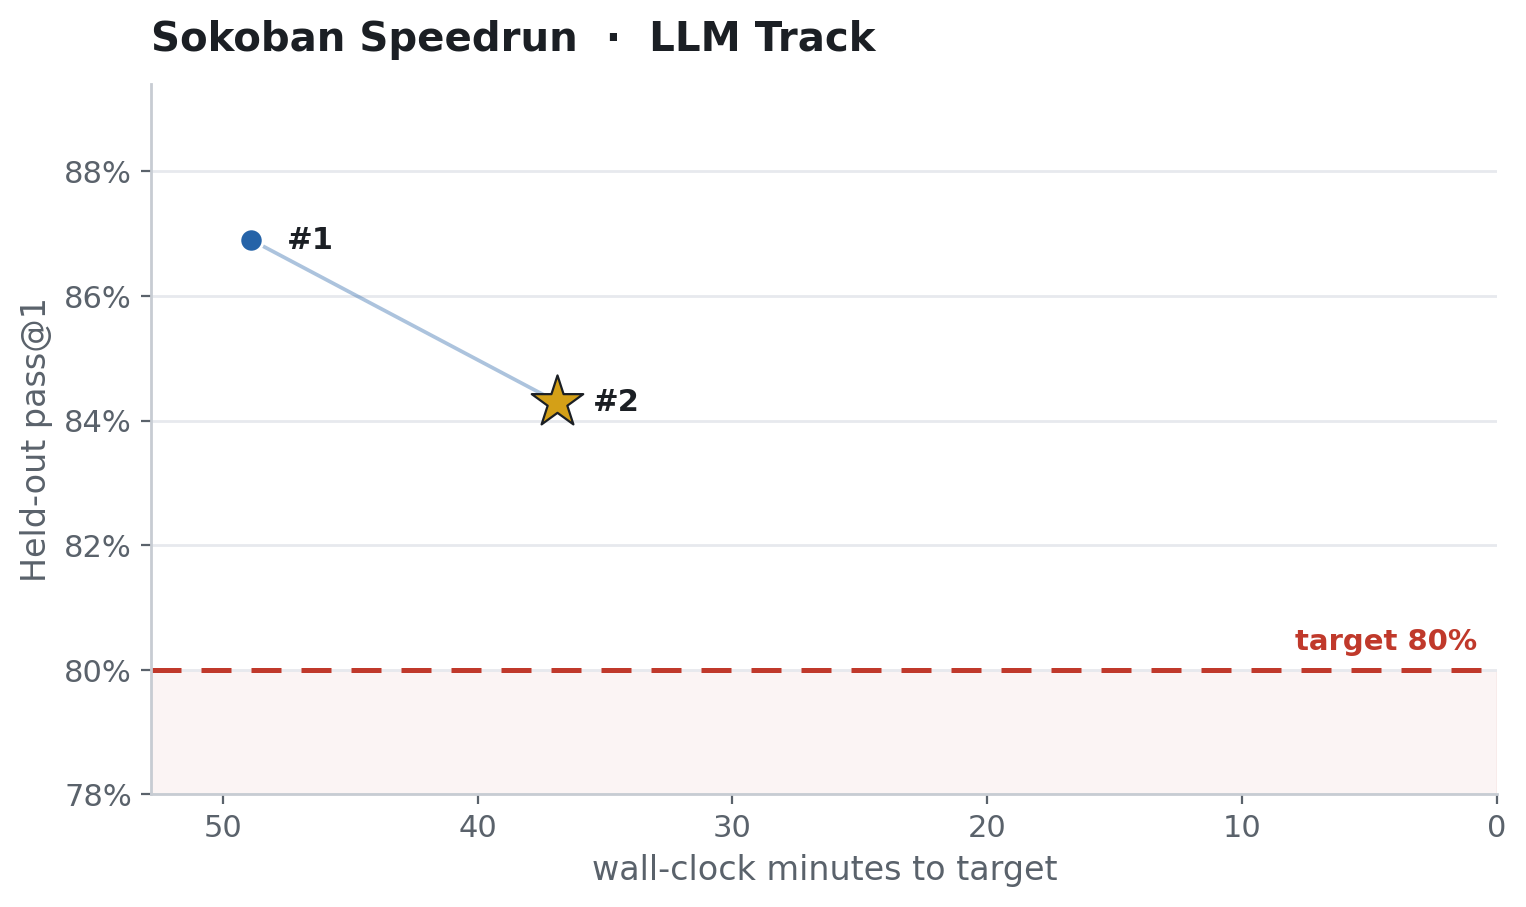
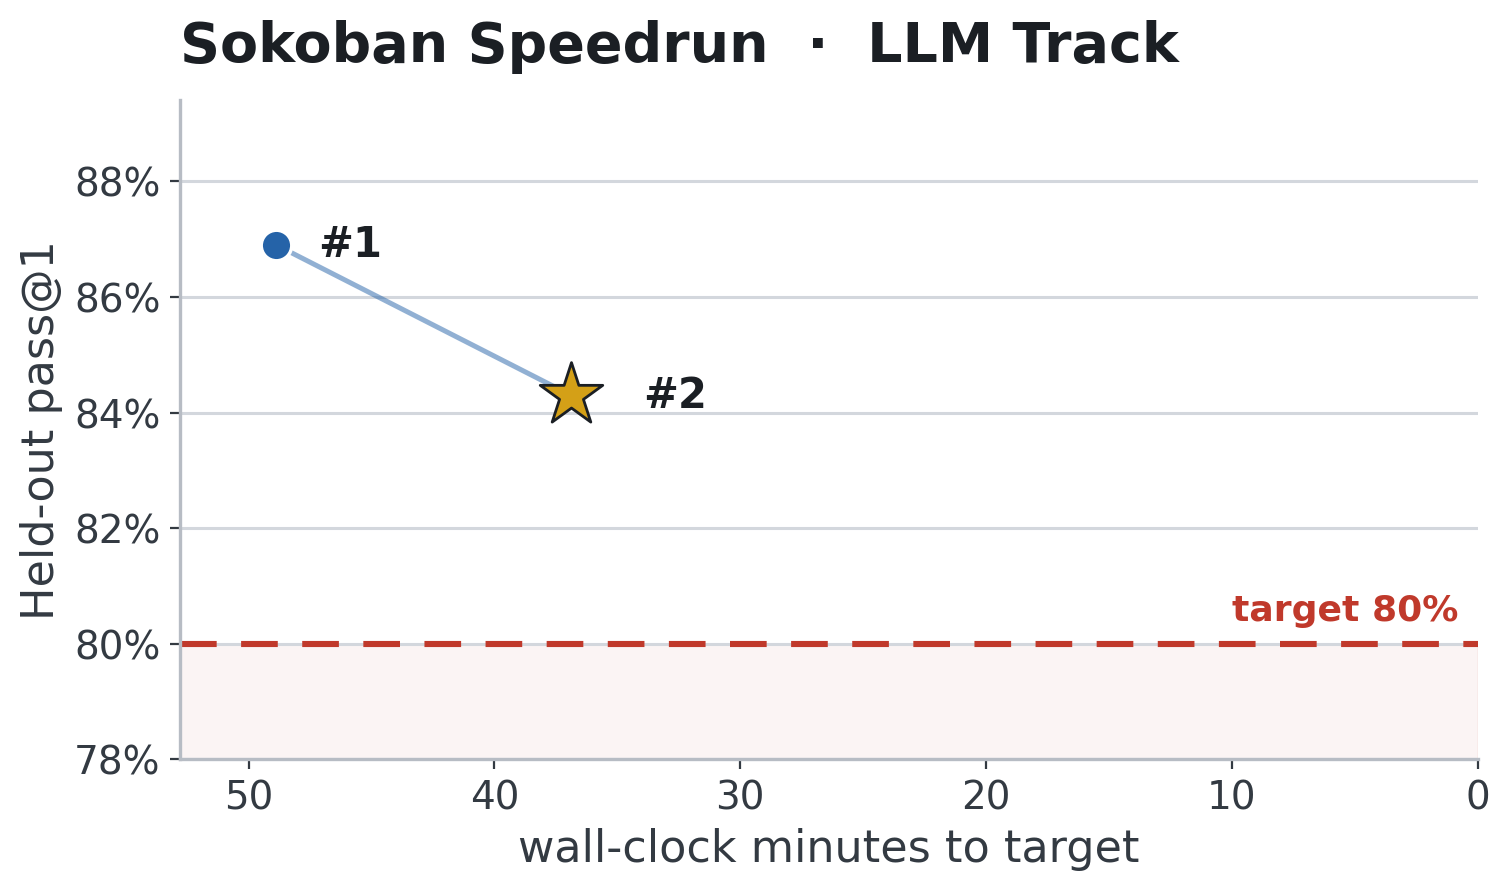
Enhance leaderboard plot aesthetics by updating color schemes, font sizes, and line widths for better visibility. Regenerate record images to reflect these changes.

diff --git a/make_record_report.py b/make_record_report.py
@@ -572,8 +572,8 @@ TRACKS = {
 # read straight from the README leaderboard tables, so the figure fills in as
 # faster records land. Regenerate after editing a row: `--leaderboard`.
 LB_INK = "#1b1f24"      # titles / record labels
-LB_MUTED = "#5a626b"    # axis labels, ticks
-LB_GRID = "#e7e9ee"     # hairline grid
+LB_MUTED = "#333a42"    # axis labels, ticks (darkened for feed contrast)
+LB_GRID = "#d3d7dd"     # grid (darker so it survives X's downscale + re-encode)
 LB_ACCENT = "#2563a8"   # superseded records (deep academic blue)
 LB_RECORD = "#d4a017"   # current (fastest clearing) record — gold star
 LB_TARGET = "#c0392b"   # target threshold (warm red, dashed)
@@ -607,17 +607,17 @@ def set_leaderboard_style() -> None:
     plt.rcParams.update({
         "figure.facecolor": "white", "savefig.facecolor": "white", "axes.facecolor": "white",
         "figure.dpi": 130, "savefig.dpi": 200, "savefig.bbox": "tight",
-        "font.size": 12.5, "text.color": LB_INK,
-        "axes.titlesize": 14.5, "axes.titleweight": "bold",
-        "axes.titlelocation": "left", "axes.titlecolor": LB_INK, "axes.titlepad": 12,
-        "axes.labelsize": 12, "axes.labelcolor": LB_MUTED,
-        "axes.edgecolor": "#c7ccd3", "axes.linewidth": 1.0,
+        "font.size": 15, "text.color": LB_INK,
+        "axes.titlesize": 20, "axes.titleweight": "bold",
+        "axes.titlelocation": "left", "axes.titlecolor": LB_INK, "axes.titlepad": 14,
+        "axes.labelsize": 16, "axes.labelcolor": LB_MUTED,
+        "axes.edgecolor": "#b7bcc4", "axes.linewidth": 1.2,
         "axes.spines.top": False, "axes.spines.right": False,
         "axes.grid": True, "axes.grid.axis": "y",
-        "grid.color": LB_GRID, "grid.linewidth": 1.0,
+        "grid.color": LB_GRID, "grid.linewidth": 1.1,
         "xtick.color": LB_MUTED, "ytick.color": LB_MUTED,
-        "xtick.labelsize": 11, "ytick.labelsize": 11,
-        "legend.frameon": False, "legend.fontsize": 10.5, "legend.labelcolor": LB_INK,
+        "xtick.labelsize": 14, "ytick.labelsize": 14,
+        "legend.frameon": False, "legend.fontsize": 12, "legend.labelcolor": LB_INK,
         "lines.solid_capstyle": "round",
     })
 
@@ -640,27 +640,29 @@ def plot_leaderboard(cfg: dict) -> None:
     ax.set_ylim(max(0.0, target - 0.02), min(1.0, max(accs) + 0.025))
 
     ax.axhspan(ax.get_ylim()[0], target, color=LB_TARGET, alpha=0.05, zorder=0)
-    ax.axhline(target, color=LB_TARGET, lw=1.8, ls=(0, (6, 4)), zorder=2)
+    ax.axhline(target, color=LB_TARGET, lw=2.2, ls=(0, (6, 4)), zorder=2)
     ax.annotate(f"target {target:.0%}", xy=(0.985, target), xycoords=ax.get_yaxis_transform(),
-                xytext=(0, 5), textcoords="offset points", va="bottom", ha="right",
-                color=LB_TARGET, fontsize=10.5, fontweight="bold")
+                xytext=(0, 6), textcoords="offset points", va="bottom", ha="right",
+                color=LB_TARGET, fontsize=13, fontweight="bold")
 
     # connect successive records (only meaningful with >= 2); each clears the target
     order = sorted(range(len(recs)), key=lambda i: recs[i]["num"])
     if len(recs) > 1:
         ax.plot([recs[i]["minutes"] for i in order], [recs[i]["acc"] for i in order],
-                color=LB_ACCENT, lw=1.35, alpha=0.38, zorder=3)
+                color=LB_ACCENT, lw=1.8, alpha=0.5, zorder=3)
 
     for i, r in enumerate(recs):
         if i == best:
-            ax.scatter([r["minutes"]], [r["acc"]], marker="*", s=380, color=LB_RECORD,
-                       edgecolors=LB_INK, linewidths=0.8, zorder=6)
+            ax.scatter([r["minutes"]], [r["acc"]], marker="*", s=560, color=LB_RECORD,
+                       edgecolors=LB_INK, linewidths=1.0, zorder=6)
+            dx = 26
         else:
-            ax.scatter([r["minutes"]], [r["acc"]], s=70, color=LB_ACCENT,
-                       edgecolors="white", linewidths=1.0, zorder=5)
-        ax.annotate(f"#{r['num']}", xy=(r["minutes"], r["acc"]), xytext=(13, 0),
+            ax.scatter([r["minutes"]], [r["acc"]], s=120, color=LB_ACCENT,
+                       edgecolors="white", linewidths=1.2, zorder=5)
+            dx = 15
+        ax.annotate(f"#{r['num']}", xy=(r["minutes"], r["acc"]), xytext=(dx, 0),
                     textcoords="offset points", ha="left", va="center",
-                    color=LB_INK, fontsize=11, fontweight="bold")
+                    color=LB_INK, fontsize=15, fontweight="bold")
 
     ax.set_xlabel("wall-clock minutes to target")
     ax.set_ylabel(cfg["lb_metric"])
